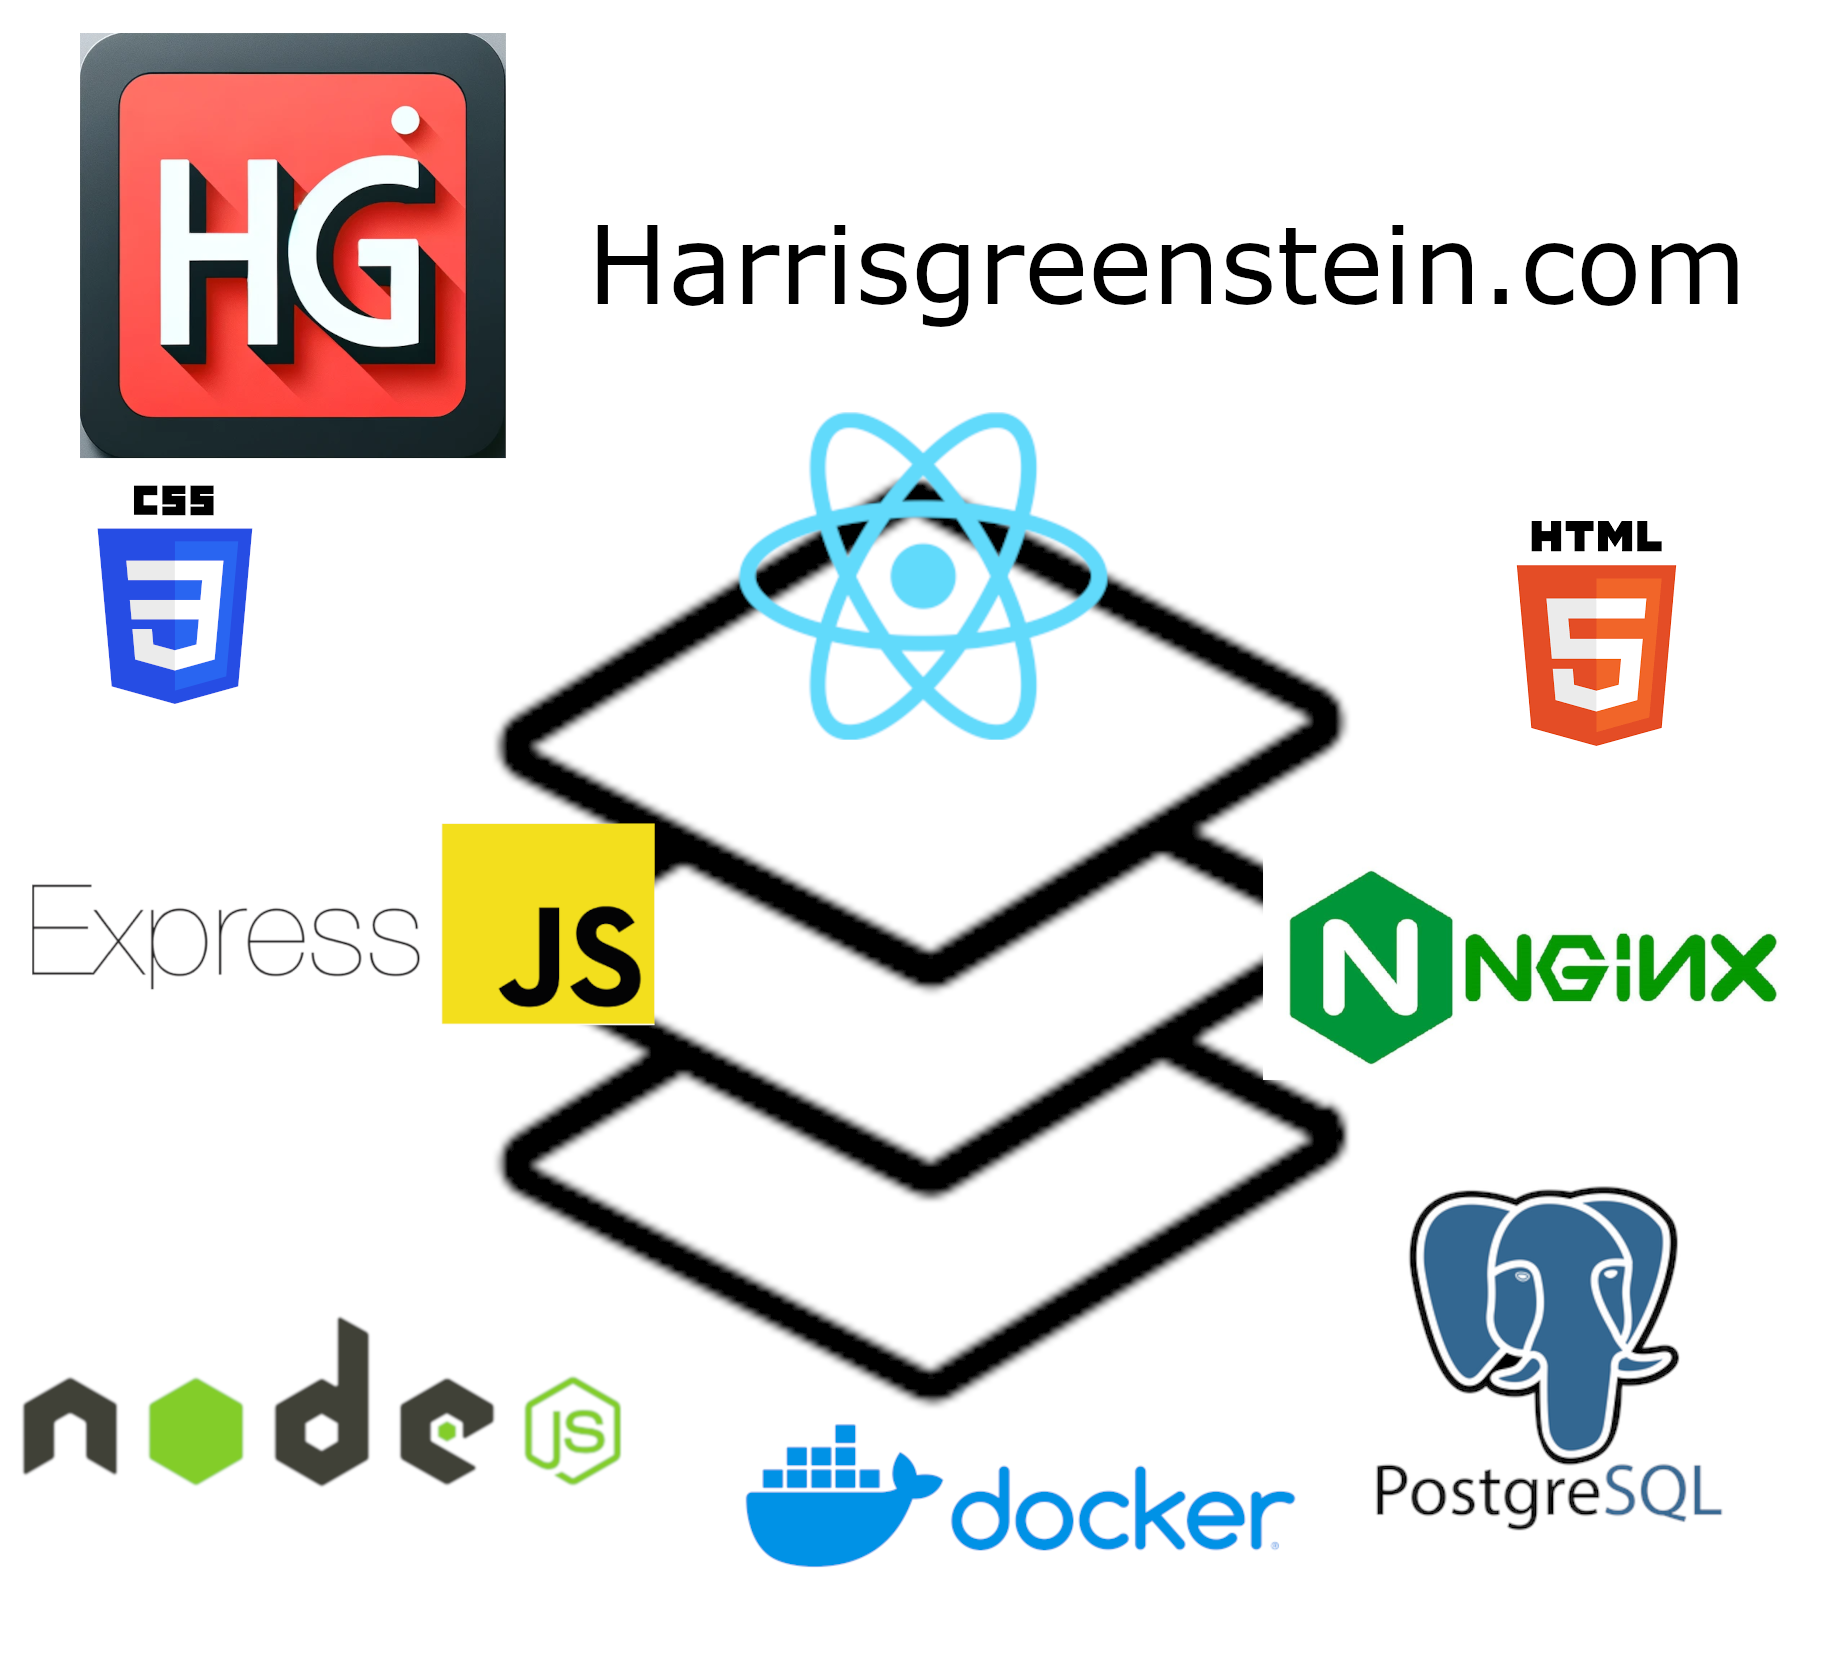
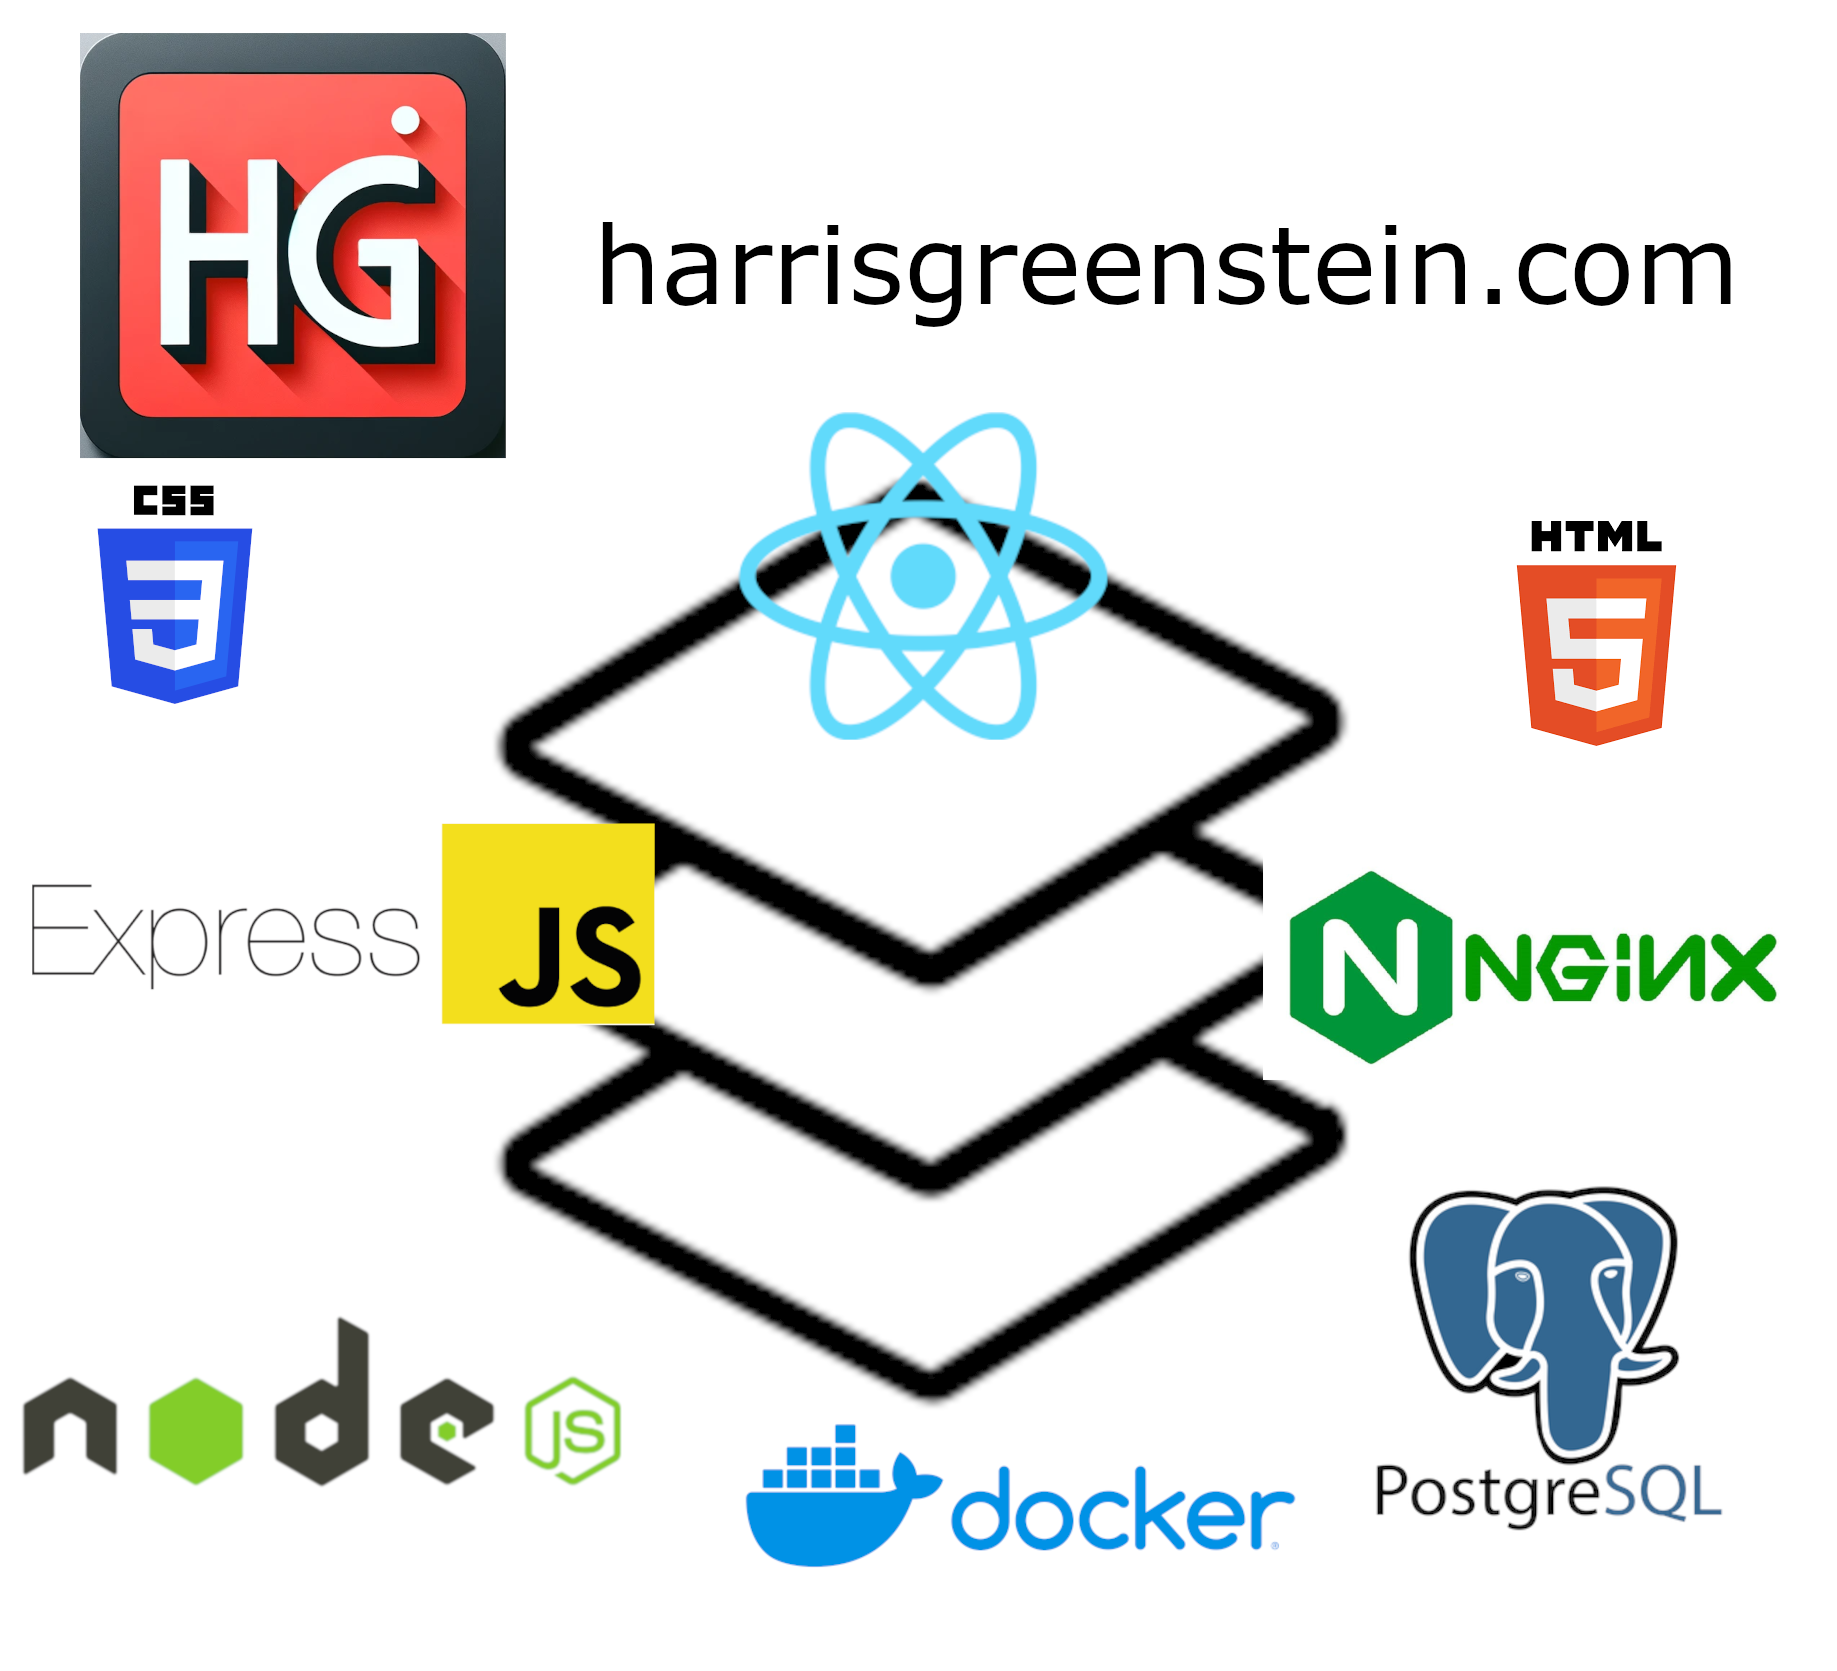
Added working email contact form with emailjs
Fixed usability testing issues with inconsistent formatting and button accessibility

Changed region(s): [[0.3103, 0.1245, 0.9619, 0.2178]]

diff --git a/client/src/components/Contact/Contact.jsx b/client/src/components/Contact/Contact.jsx
@@ -1,37 +1,106 @@
-import React, {useRef, useEffect} from 'react';
+import React, { useRef } from 'react';
 import './contact.css';
 import '../../index.css';
 import useAnimateOnObserve from '../../Custom-Hooks/useAnimateOnObserve';
+import emailjs from '@emailjs/browser';
+import emailCreds from './emailCreds.js';
 function Contact() {
     const contactListItems = useRef([]);
-    useAnimateOnObserve(contactListItems, 'contact-list-animation', {rootMargin: '0px', threshold: 0.1});
-    
+    const contactForm = useRef(null);
+    useAnimateOnObserve(contactListItems, 'contact-list-animation', {
+        rootMargin: '0px',
+        threshold: 0.1,
+    });
+    const sendEmail = (e) => {
+        e.preventDefault();
+        emailjs.sendForm(
+            emailCreds.credentials.service,
+            emailCreds.credentials.template,
+            contactForm.current,
+            emailCreds.credentials.key
+        )
+        .then(
+                () => {
+                    alert('Email was successfully sent to Harris Greenstein!');
+                },
+                () => {
+                    alert('Email was not successfully sent, please try again');
+                }
+            )
+    }
+
     return (
         <section id="contact" className="contact-container">
             <h1 className="contact-header">Contact Me</h1>
             <div className="contact-form">
-                <ul className="contact-form-list">
-                    {['name', 'email', 'message', 'submit'].map((field, index) => (
+                <form ref={contactForm}
+                onSubmit={sendEmail}>
+                    <ul className="contact-form-list">
                         <li
-                            className="contact-form-item"
-                            ref={(el) => (contactListItems.current[index] = el)}
-                            key={field}
+                            className="contact-form-half"
+                            ref={(element) =>
+                                (contactListItems.current[0] = element)
+                            }
                         >
-                            {field === 'message' ? (
-                                <textarea placeholder="Message" name={field} required />
-                            ) : field === 'submit' ? (
-                                <input type="submit" className="contact-submit-button" value="SEND" />
-                            ) : (
-                                <input
-                                    type={field === 'email' ? 'email' : 'text'}
-                                    name={field}
-                                    placeholder={field.charAt(0).toUpperCase() + field.slice(1)}
-                                    required
-                                />
-                            )}
+                            <input
+                                type="text"
+                                name="name"
+                                placeholder="Name"
+                                required
+                            />
                         </li>
-                    ))}
-                </ul>
+                        <li
+                            className="contact-form-half"
+                            ref={(element) =>
+                                (contactListItems.current[1] = element)
+                            }
+                        >
+                            <input
+                                type="email"
+                                name="email"
+                                placeholder="Email"
+                                required
+                            />
+                        </li>
+                        <li
+                            className="contact-form-half"
+                            ref={(element) =>
+                                (contactListItems.current[2] = element)
+                            }
+                        >
+                            <input
+                                type="text"
+                                placeholder="Subject"
+                                name="subject"
+                                required
+                            />
+                        </li>
+                        <li
+                            className="contact-form-textarea"
+                            ref={(element) =>
+                                (contactListItems.current[3] = element)
+                            }
+                        >
+                            <textarea
+                                placeholder="Message"
+                                name="message"
+                                required
+                            />
+                        </li>
+                        <li
+                            className="contact-form-submit"
+                            ref={(element) =>
+                                (contactListItems.current[4] = element)
+                            }
+                        >
+                            <input
+                                type="submit"
+                                className="contact-submit-button"
+                                value="SEND"
+                            />
+                        </li>
+                    </ul>
+                </form>
             </div>
         </section>
     );

diff --git a/client/src/components/About/mockAboutCards.js b/client/src/components/About/mockAboutCards.js
@@ -1,7 +1,7 @@
 const mockAboutCards = [
     {
         superheading: {
-            name: 'Cornell University, B.Sc. Computer Science, Minor in Business for Engineers,',
+            name: 'Cornell University, B.S. Computer Science, Minor in Business for Engineers,',
             period: '2019 - 2023',
             logo: 'cornellSeal',
         },
@@ -15,7 +15,7 @@ const mockAboutCards = [
             two: {
                 bold: 'Practical Projects:',
                 content:
-                    'Developed an AI agent that utilized neural networks, and NLP and analyzed the worldwide network coverage of Starlink Satellite Internet, learn more in projects.',
+                    'Developed an AI agent that utilized neural networks and NLP, and analyzed the worldwide network coverage of Starlink Satellite Internet. Learn more in projects.',
             },
             three: {
                 bold: 'Business Mindset:',
@@ -73,11 +73,11 @@ const mockAboutCards = [
             two: {
                 bold: 'Flexible Team Player:',
                 content:
-                    'During my time in Marching Band, I served in a variety of roles from Drum Major to show committee chair designing formations and choosing music, to section leader and librarian.',
+                    'During my time in Marching Band, I served in a variety of roles from Drum Major to Show Committee Chair designing formations and choosing music, to Section Leader and Librarian.',
             },
             three: {
                 bold: 'World Class Performances:',
-                content: 'From Madison Square Garden and 5th Avenue to Main Street Disney World and all 8 Ivy League Schools, I brought school spirit and cheer all over the Northeast',
+                content: 'From Madison Square Garden and 5th Avenue to Main Street Disney World and all 8 Ivy League Schools, I brought school spirit and cheer all over the Northeast.',
             },
         },
         personalImage: {

diff --git a/client/src/components/Projects/Projects.jsx b/client/src/components/Projects/Projects.jsx
@@ -34,7 +34,7 @@ function Projects() {
                     <Card.Img variant="top" src={HarrisGreensteinLogo} />
                     <Card.Body>
                         <Card.Title>
-                            Full Stack Development: Harrisgreenstein.com
+                            Full Stack Development: harrisgreenstein.com
                         </Card.Title>
                         <Card.Text>
                             <ul className="experience-inner-list">
@@ -50,7 +50,7 @@ function Projects() {
                                     hooks, components, and libraries while the
                                     backend is served via a NodeJs server
                                     servering as a Restful API for a PostgreSQL
-                                    database.
+                                    database
                                 </li>
                                 <li>
                                     Express serves as the middleware between the
@@ -169,7 +169,7 @@ function Projects() {
                                     globally distributed probes
                                 </li>
                                 <li>
-                                    Performed statistical data analysis based on numerous geographic factors and correlated performance metrics with satellite and ground station trace-route locations.
+                                    Performed statistical data analysis based on numerous geographic factors and correlated performance metrics with satellite and ground station trace-route locations
                                 </li>
                                 <li>
                                     Concluded Starlink does not consistently

diff --git a/client/src/components/Contact/contact.css b/client/src/components/Contact/contact.css
@@ -8,7 +8,7 @@
     margin-left: auto;
     margin-right: auto;
     padding: 10px 20px;
-    width: 40dvw;
+    width: 28dvw;
     margin-top: 0.5rem;
     border-radius: 9px;
     border: 1px solid black;
@@ -32,10 +32,49 @@
     list-style: none;
     margin-bottom: 10px;
     overflow: hidden;
-    position: relative;
     opacity: 0;
     animation-fill-mode: forwards;
 }
 .contact-list-animation {
     animation: fadeInScaleUp 1s ease-in-out;
 }
+.contact-form-half {
+    width: 100%;
+    margin-left: 2%;
+    clear: none;
+}
+.contact-form-half > input {
+    width: 100%;
+    background-color: var(--bs-body-bg);
+    color: var(--bs-heading-color) !important;
+}
+.contact-form-half > input::placeholder {
+    color: var(--bs-heading-color) !important;
+}
+.contact-form-half:first-child{
+    margin-left: 0;
+}
+.contact-form-textarea{
+    width: 100%;
+    border: 0;
+    height: 50px;
+    font-size: 1rem;
+    padding: 20px;
+    min-height: 150px;
+}
+.contact-form-textarea > textarea {
+    width: 100%;
+    background-color: var(--bs-body-bg);
+    color: var(--bs-heading-color) !important;
+}
+.contact-form-textarea > textarea::placeholder{
+    color: var(--bs-heading-color) !important;
+
+}
+.contact-form-submit{
+    width: 100%;
+}
+.contact-submit-button{
+    width: 100%;
+}
+

diff --git a/client/src/components/Home/Home.jsx b/client/src/components/Home/Home.jsx
@@ -133,7 +133,7 @@ function Home({ darkMode }) {
                                 <div className="home-button-wrapper">
                                     <div className="home-button-background"></div>
                                     <a
-                                        href="#about"
+                                        href="#leadership"
                                         onClick={HandleNavigation}
                                         title=""
                                         className="home-read-button"
@@ -158,7 +158,7 @@ function Home({ darkMode }) {
                                             />
                                             <p className="home-latest-pick-description">
                                                 <a
-                                                    href="#"
+                                                    href="#background-container"
                                                     title=""
                                                     onClick={HandleNavigation}
                                                 >

diff --git a/client/src/components/About/AboutCard.jsx b/client/src/components/About/AboutCard.jsx
@@ -37,6 +37,7 @@ function AboutCard({ darkMode, data }) {
                         <div className="about-content-cornell">
                             <h5>
                                 {data.superheading.name}{' '}
+                                {data.superheading.name === 'Music and Teamworking: Marching Band' ? <br/> : undefined}
                                 {data.superheading.period}
                             </h5>
                             <img
